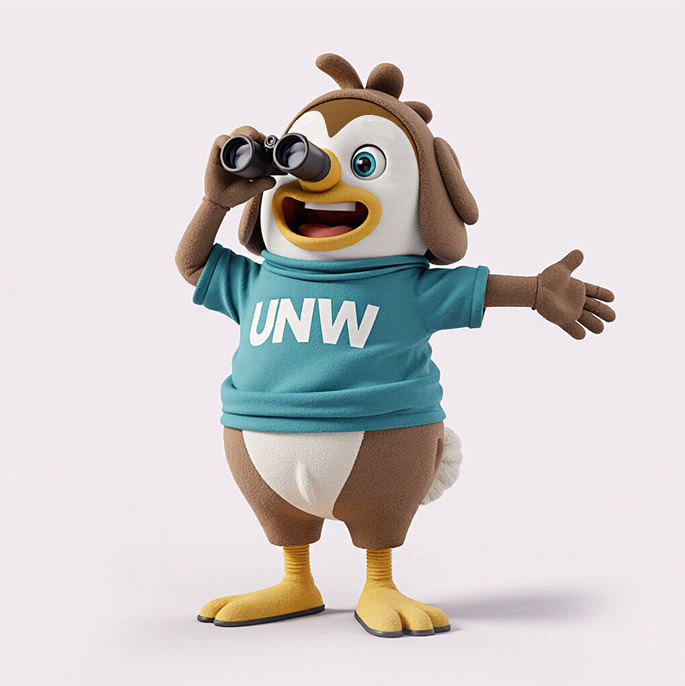
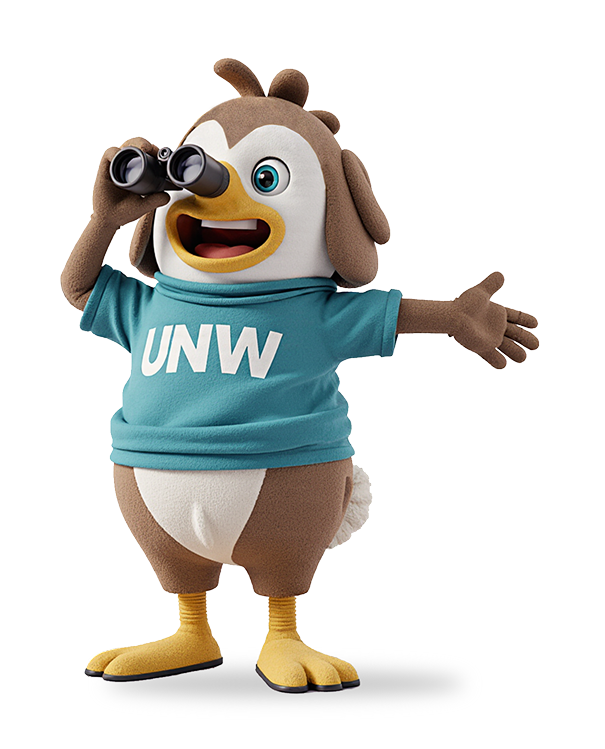
fix: error page position

diff --git a/wp-content/themes/unw/styles/pages/404/error.scss b/wp-content/themes/unw/styles/pages/404/error.scss
@@ -91,16 +91,18 @@
 }
 
 .error-page__image {
-  min-width: rem(445);
+  min-width: rem(322);
   position: absolute;
   bottom: rem(34);
-  max-height: none;
+  max-height: rem(500);
   z-index: -1;
+  left: 50%;
+  transform: translateX(-50%);
 
   @include media(">=tablet") {
+    max-height: none;
     position: relative;
     max-width: none;
-    left: rem(-162);
   }
 
   @include media(">=desktop-s") {
